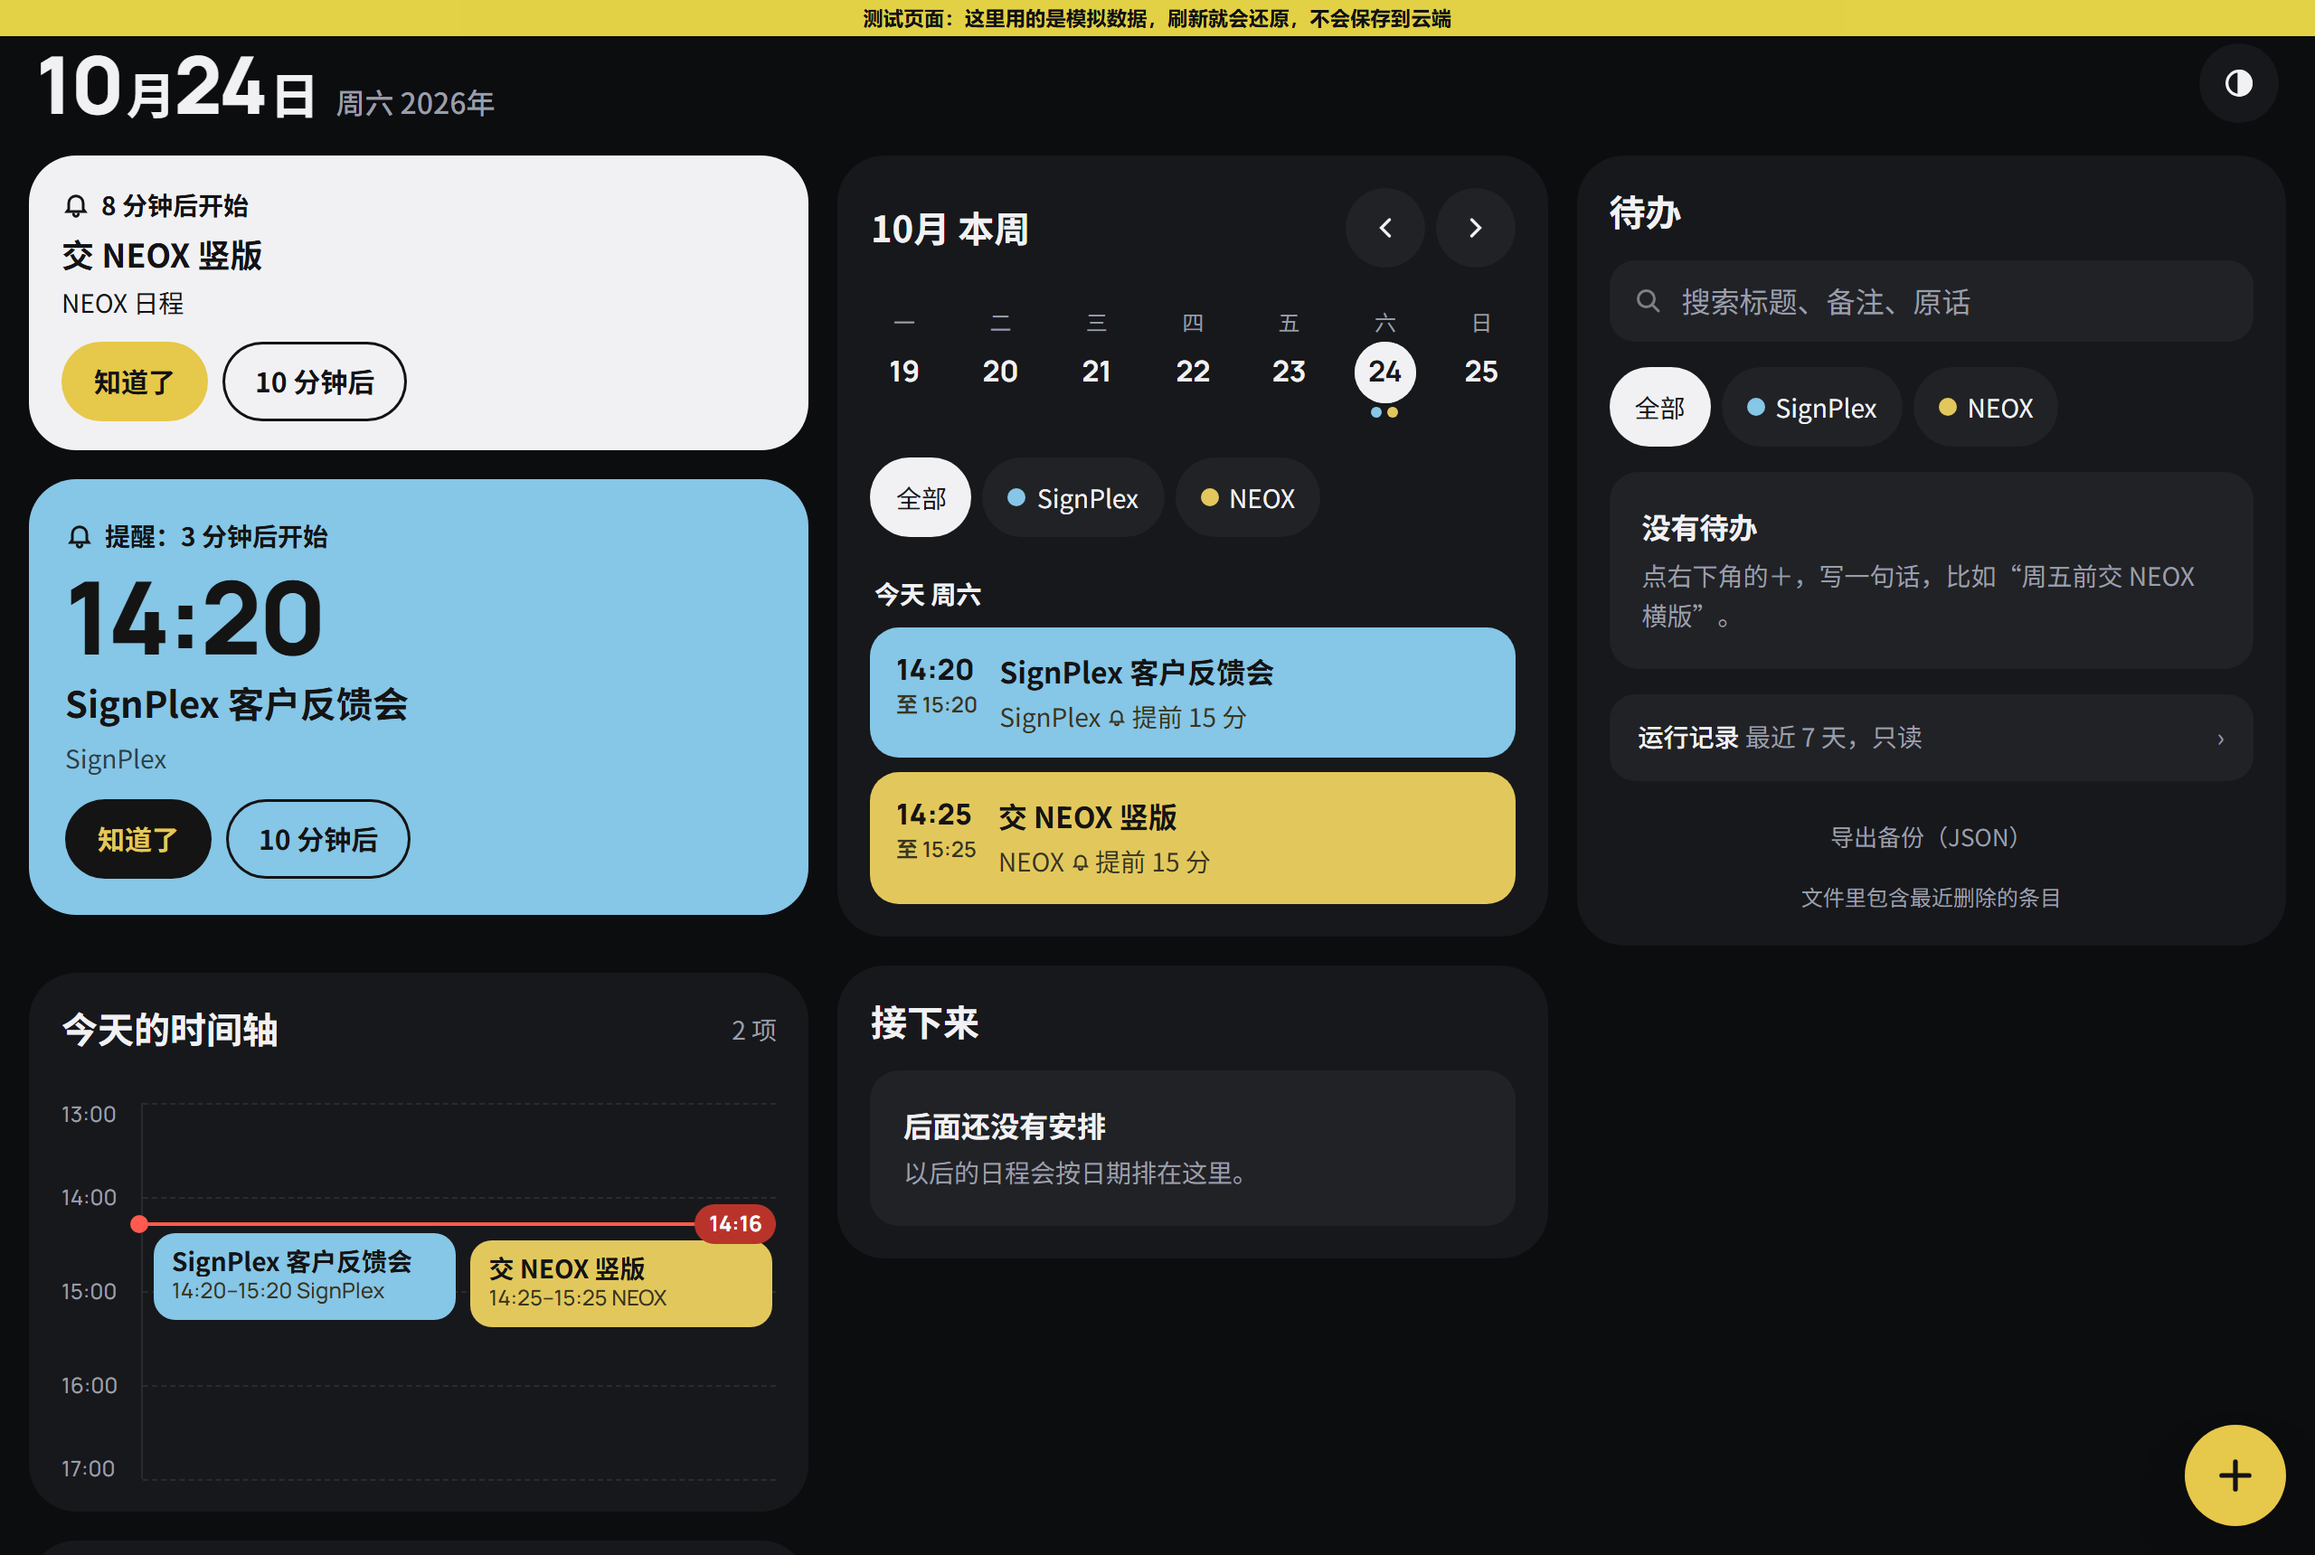
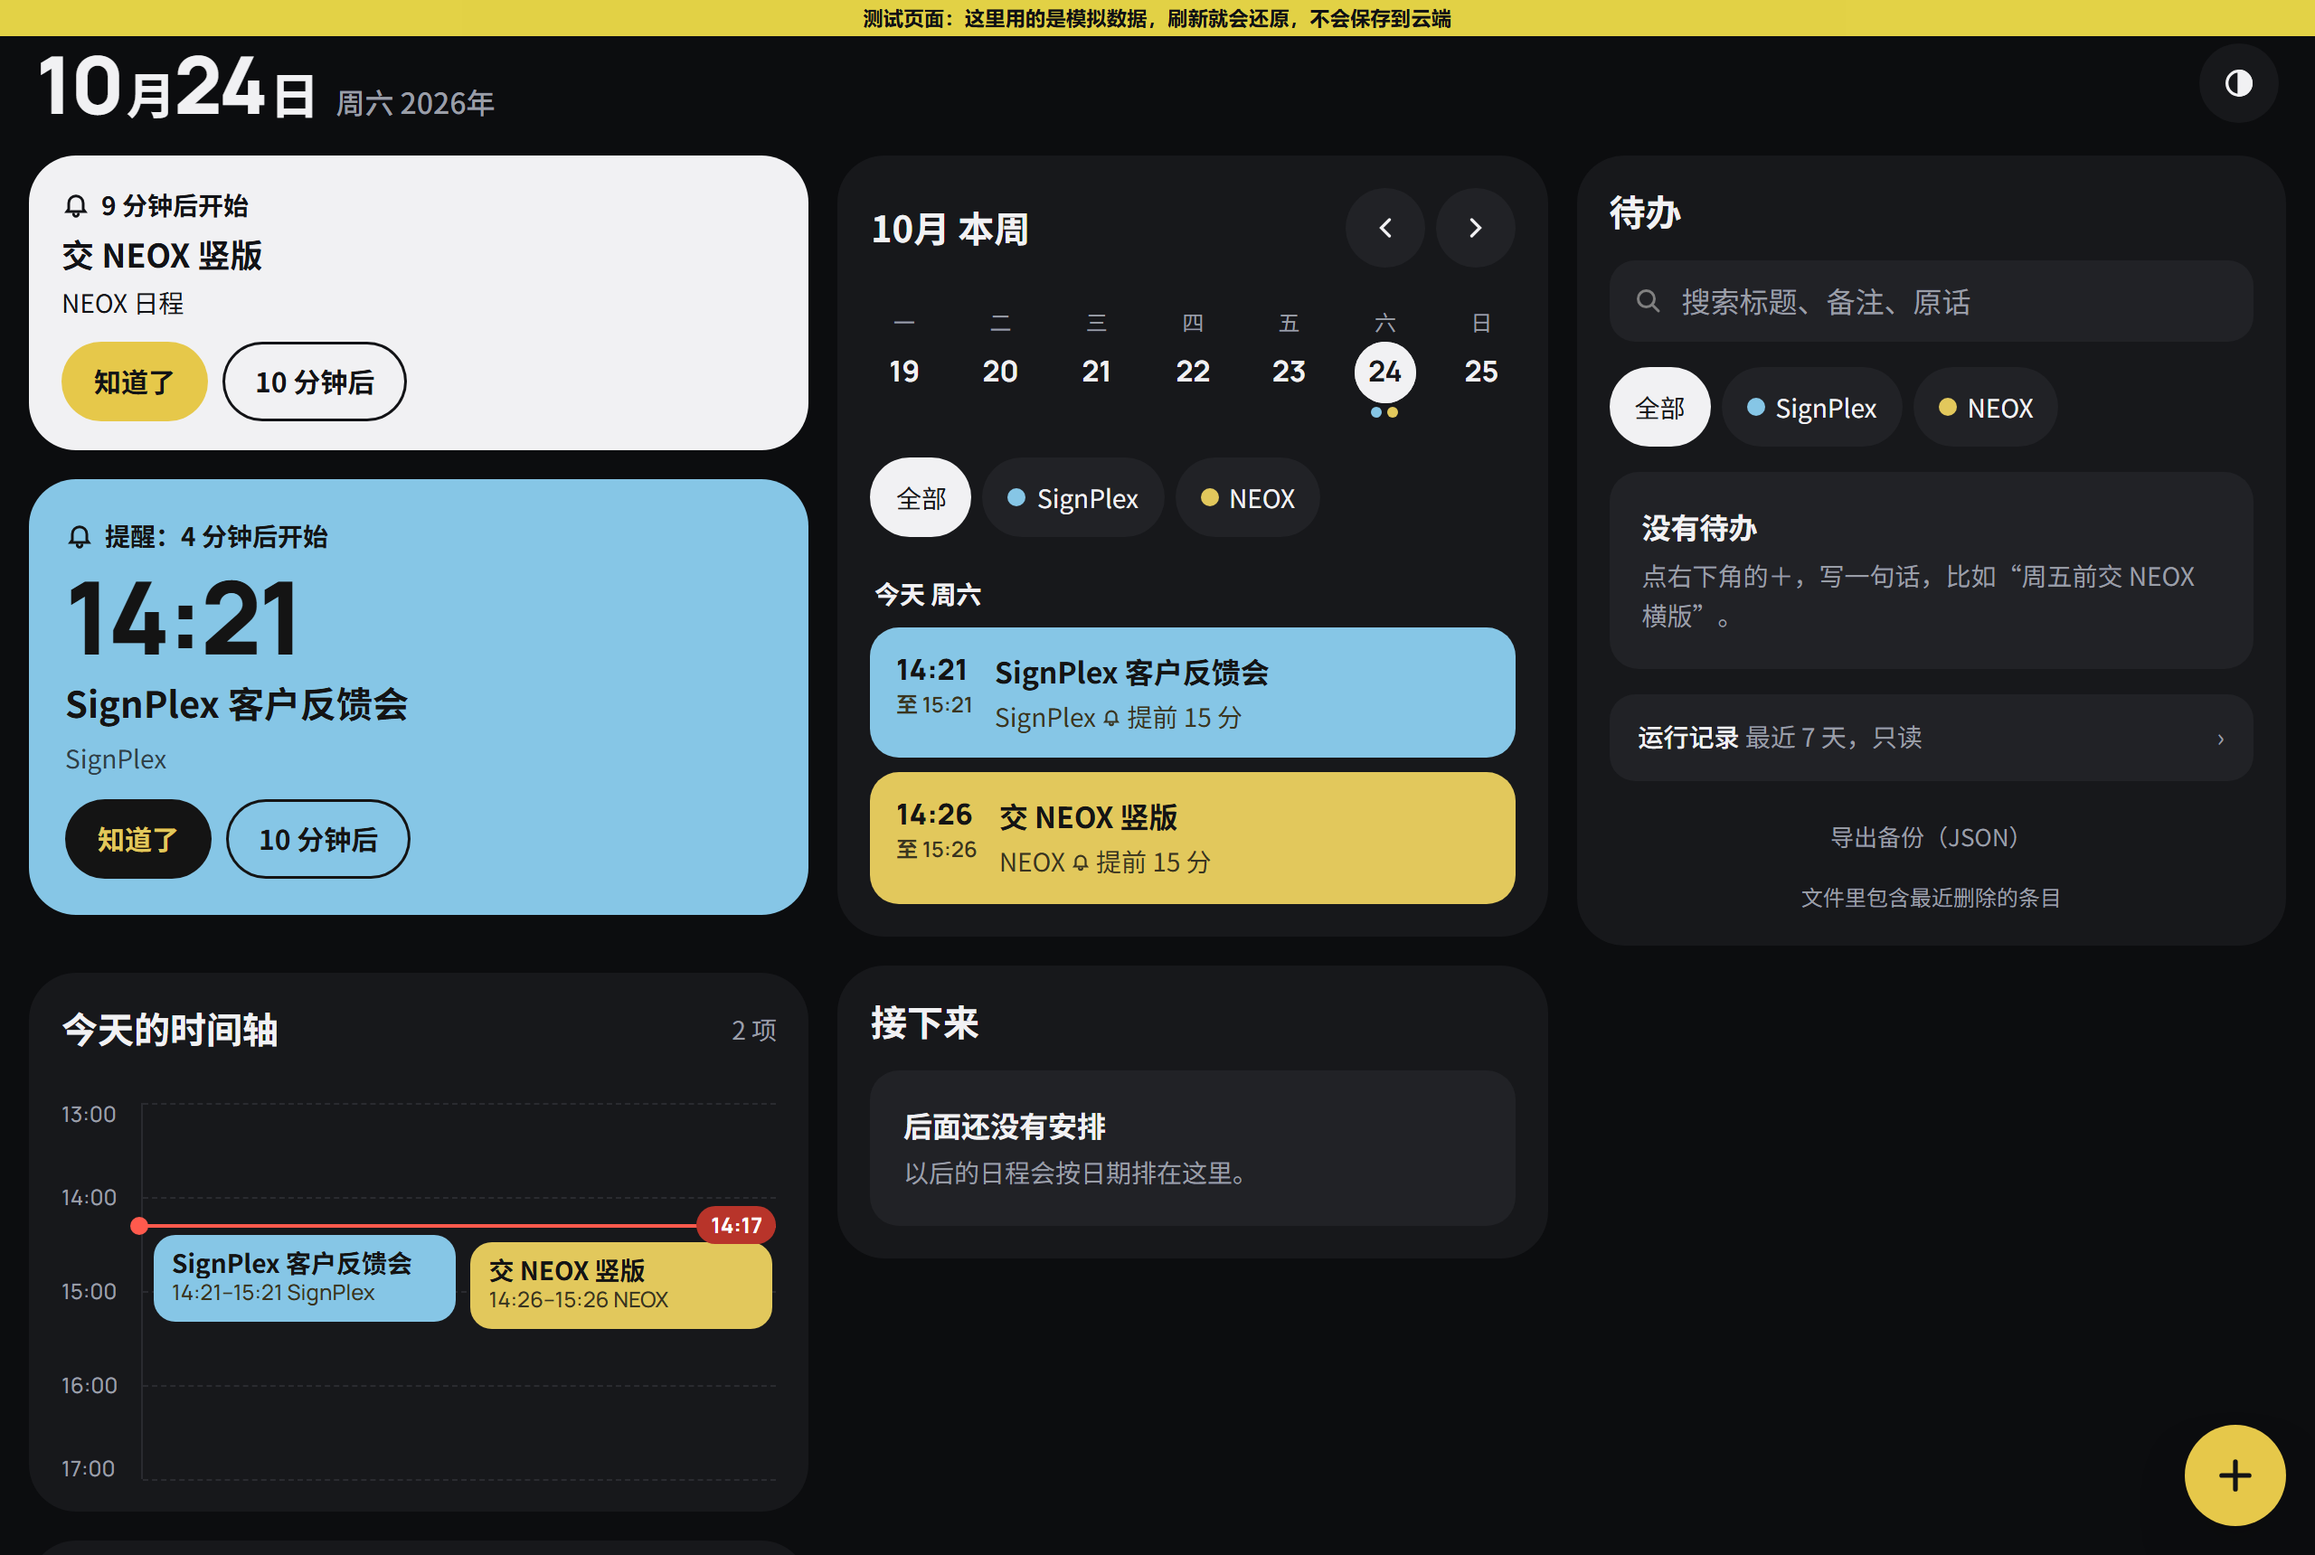
修复：切换页面时提醒胶囊不出现（切页不重绘，导航切换时单独刷新胶囊）；别处确认收起改用统一缓动；截图补“日程页提醒胶囊”场景

diff --git a/dist/planner.html b/dist/planner.html
@@ -395,7 +395,7 @@ button{cursor:pointer}
 @keyframes rem-shrink{from{grid-template-rows:1fr;opacity:1}to{grid-template-rows:0fr;opacity:0}}
 @keyframes remind-out{from{opacity:1;transform:none}to{opacity:0;transform:translateY(-8px)}}
 /* 已在别处确认：停 0.6 秒，最后 0.2 秒淡出并收起高度（UI-4 复查） */
-@keyframes remind-confirm{0%,75%{opacity:1;max-height:240px}100%{opacity:0;max-height:0;padding-top:0;padding-bottom:0}}
+@keyframes remind-confirm{0%,75%{opacity:1;max-height:240px;animation-timing-function:cubic-bezier(.4,0,.2,1)}100%{opacity:0;max-height:0;padding-top:0;padding-bottom:0}}
 @keyframes remind-in{from{opacity:0;transform:translateY(-12px)}to{opacity:1;transform:none}}
 @keyframes remind-fade{from{opacity:0}to{opacity:1}}
 @keyframes bell-swing{0%,100%{transform:rotate(0)}25%{transform:rotate(8deg)}75%{transform:rotate(-8deg)}}
@@ -3131,6 +3131,7 @@ App.ui.sheet = {open: openSheet, close: closeSheet, isClosed, init, openDetails}
 // 职责：底部导航与网络提示：go() 切换今天 / 日程 / 待办三页并回到页顶（记住上次的页、移动白色指示块、窄屏只显示当前页文字）；
 //       窗口尺寸变化时只重排导航、不滚动（修 v2“resize 跳回顶部”）；断网时顶部显示红条。
 // 依赖：core/const.js、platform/prefs.js、ui/dom.js、ui/view-state.js
+// 运行时调用：ui/remind.js
 App.ui = App.ui || {};
 
 const C = App.core.C;
@@ -3154,6 +3155,7 @@ function applyView(v){
     lab.hidden = !on && innerWidth < C.NARROW_NAV_PX;
   });
   requestAnimationFrame(placeInd);
+  if (App.ui.remind) App.ui.remind.renderPill();   // 切页不重绘，提醒胶囊要跟着当前页刷新（UI-1 复查）
 }
 function go(v){ applyView(v); window.scrollTo({top:0}); }
 const net = () => { $("netbar").hidden = navigator.onLine !== false; };
@@ -3325,7 +3327,7 @@ function init(){
   App.clock.on("tick", () => { if (!App.ui.sheet.isClosed()){ update(); renderCard(null); } });
 }
 
-App.ui.remind = {init, update, forItem, decorateNext, renderCard, todayVisible, ICON_BELL};
+App.ui.remind = {init, update, forItem, decorateNext, renderCard, renderPill, todayVisible, ICON_BELL};
 })();
 // ==== src/scripts/ui/theme.js ====
 (function(){

diff --git a/dist/test-claude.html b/dist/test-claude.html
@@ -451,7 +451,7 @@ button{cursor:pointer}
 @keyframes rem-shrink{from{grid-template-rows:1fr;opacity:1}to{grid-template-rows:0fr;opacity:0}}
 @keyframes remind-out{from{opacity:1;transform:none}to{opacity:0;transform:translateY(-8px)}}
 /* 已在别处确认：停 0.6 秒，最后 0.2 秒淡出并收起高度（UI-4 复查） */
-@keyframes remind-confirm{0%,75%{opacity:1;max-height:240px}100%{opacity:0;max-height:0;padding-top:0;padding-bottom:0}}
+@keyframes remind-confirm{0%,75%{opacity:1;max-height:240px;animation-timing-function:cubic-bezier(.4,0,.2,1)}100%{opacity:0;max-height:0;padding-top:0;padding-bottom:0}}
 @keyframes remind-in{from{opacity:0;transform:translateY(-12px)}to{opacity:1;transform:none}}
 @keyframes remind-fade{from{opacity:0}to{opacity:1}}
 @keyframes bell-swing{0%,100%{transform:rotate(0)}25%{transform:rotate(8deg)}75%{transform:rotate(-8deg)}}
@@ -3187,6 +3187,7 @@ App.ui.sheet = {open: openSheet, close: closeSheet, isClosed, init, openDetails}
 // 职责：底部导航与网络提示：go() 切换今天 / 日程 / 待办三页并回到页顶（记住上次的页、移动白色指示块、窄屏只显示当前页文字）；
 //       窗口尺寸变化时只重排导航、不滚动（修 v2“resize 跳回顶部”）；断网时顶部显示红条。
 // 依赖：core/const.js、platform/prefs.js、ui/dom.js、ui/view-state.js
+// 运行时调用：ui/remind.js
 App.ui = App.ui || {};
 
 const C = App.core.C;
@@ -3210,6 +3211,7 @@ function applyView(v){
     lab.hidden = !on && innerWidth < C.NARROW_NAV_PX;
   });
   requestAnimationFrame(placeInd);
+  if (App.ui.remind) App.ui.remind.renderPill();   // 切页不重绘，提醒胶囊要跟着当前页刷新（UI-1 复查）
 }
 function go(v){ applyView(v); window.scrollTo({top:0}); }
 const net = () => { $("netbar").hidden = navigator.onLine !== false; };
@@ -3381,7 +3383,7 @@ function init(){
   App.clock.on("tick", () => { if (!App.ui.sheet.isClosed()){ update(); renderCard(null); } });
 }
 
-App.ui.remind = {init, update, forItem, decorateNext, renderCard, todayVisible, ICON_BELL};
+App.ui.remind = {init, update, forItem, decorateNext, renderCard, renderPill, todayVisible, ICON_BELL};
 })();
 // ==== src/scripts/ui/theme.js ====
 (function(){

diff --git a/dist/test.html b/dist/test.html
@@ -420,7 +420,7 @@ button{cursor:pointer}
 @keyframes rem-shrink{from{grid-template-rows:1fr;opacity:1}to{grid-template-rows:0fr;opacity:0}}
 @keyframes remind-out{from{opacity:1;transform:none}to{opacity:0;transform:translateY(-8px)}}
 /* 已在别处确认：停 0.6 秒，最后 0.2 秒淡出并收起高度（UI-4 复查） */
-@keyframes remind-confirm{0%,75%{opacity:1;max-height:240px}100%{opacity:0;max-height:0;padding-top:0;padding-bottom:0}}
+@keyframes remind-confirm{0%,75%{opacity:1;max-height:240px;animation-timing-function:cubic-bezier(.4,0,.2,1)}100%{opacity:0;max-height:0;padding-top:0;padding-bottom:0}}
 @keyframes remind-in{from{opacity:0;transform:translateY(-12px)}to{opacity:1;transform:none}}
 @keyframes remind-fade{from{opacity:0}to{opacity:1}}
 @keyframes bell-swing{0%,100%{transform:rotate(0)}25%{transform:rotate(8deg)}75%{transform:rotate(-8deg)}}
@@ -3156,6 +3156,7 @@ App.ui.sheet = {open: openSheet, close: closeSheet, isClosed, init, openDetails}
 // 职责：底部导航与网络提示：go() 切换今天 / 日程 / 待办三页并回到页顶（记住上次的页、移动白色指示块、窄屏只显示当前页文字）；
 //       窗口尺寸变化时只重排导航、不滚动（修 v2“resize 跳回顶部”）；断网时顶部显示红条。
 // 依赖：core/const.js、platform/prefs.js、ui/dom.js、ui/view-state.js
+// 运行时调用：ui/remind.js
 App.ui = App.ui || {};
 
 const C = App.core.C;
@@ -3179,6 +3180,7 @@ function applyView(v){
     lab.hidden = !on && innerWidth < C.NARROW_NAV_PX;
   });
   requestAnimationFrame(placeInd);
+  if (App.ui.remind) App.ui.remind.renderPill();   // 切页不重绘，提醒胶囊要跟着当前页刷新（UI-1 复查）
 }
 function go(v){ applyView(v); window.scrollTo({top:0}); }
 const net = () => { $("netbar").hidden = navigator.onLine !== false; };
@@ -3350,7 +3352,7 @@ function init(){
   App.clock.on("tick", () => { if (!App.ui.sheet.isClosed()){ update(); renderCard(null); } });
 }
 
-App.ui.remind = {init, update, forItem, decorateNext, renderCard, todayVisible, ICON_BELL};
+App.ui.remind = {init, update, forItem, decorateNext, renderCard, renderPill, todayVisible, ICON_BELL};
 })();
 // ==== src/scripts/ui/theme.js ====
 (function(){

diff --git a/src/scripts/ui/nav.js b/src/scripts/ui/nav.js
@@ -1,6 +1,7 @@
 // 职责：底部导航与网络提示：go() 切换今天 / 日程 / 待办三页并回到页顶（记住上次的页、移动白色指示块、窄屏只显示当前页文字）；
 //       窗口尺寸变化时只重排导航、不滚动（修 v2“resize 跳回顶部”）；断网时顶部显示红条。
 // 依赖：core/const.js、platform/prefs.js、ui/dom.js、ui/view-state.js
+// 运行时调用：ui/remind.js
 App.ui = App.ui || {};
 
 const C = App.core.C;
@@ -24,6 +25,7 @@ function applyView(v){
     lab.hidden = !on && innerWidth < C.NARROW_NAV_PX;
   });
   requestAnimationFrame(placeInd);
+  if (App.ui.remind) App.ui.remind.renderPill();   // 切页不重绘，提醒胶囊要跟着当前页刷新（UI-1 复查）
 }
 function go(v){ applyView(v); window.scrollTo({top:0}); }
 const net = () => { $("netbar").hidden = navigator.onLine !== false; };

diff --git a/src/styles/components/remind.css b/src/styles/components/remind.css
@@ -53,7 +53,7 @@
 @keyframes rem-shrink{from{grid-template-rows:1fr;opacity:1}to{grid-template-rows:0fr;opacity:0}}
 @keyframes remind-out{from{opacity:1;transform:none}to{opacity:0;transform:translateY(-8px)}}
 /* 已在别处确认：停 0.6 秒，最后 0.2 秒淡出并收起高度（UI-4 复查） */
-@keyframes remind-confirm{0%,75%{opacity:1;max-height:240px}100%{opacity:0;max-height:0;padding-top:0;padding-bottom:0}}
+@keyframes remind-confirm{0%,75%{opacity:1;max-height:240px;animation-timing-function:cubic-bezier(.4,0,.2,1)}100%{opacity:0;max-height:0;padding-top:0;padding-bottom:0}}
 @keyframes remind-in{from{opacity:0;transform:translateY(-12px)}to{opacity:1;transform:none}}
 @keyframes remind-fade{from{opacity:0}to{opacity:1}}
 @keyframes bell-swing{0%,100%{transform:rotate(0)}25%{transform:rotate(8deg)}75%{transform:rotate(-8deg)}}

diff --git a/src/scripts/ui/remind.js b/src/scripts/ui/remind.js
@@ -154,4 +154,4 @@ function init(){
   App.clock.on("tick", () => { if (!App.ui.sheet.isClosed()){ update(); renderCard(null); } });
 }
 
-App.ui.remind = {init, update, forItem, decorateNext, renderCard, todayVisible, ICON_BELL};
+App.ui.remind = {init, update, forItem, decorateNext, renderCard, renderPill, todayVisible, ICON_BELL};

diff --git a/文件登记册.md b/文件登记册.md
@@ -247,6 +247,8 @@
 | docs/02-设计/成品截图-v3/电脑-深色-00-今天-下一件事提醒状态.png | 设计 | v3 成品截图（tests/visual/shoot.mjs 生成） | 主持人 | 10-23 | 在用 |
 | docs/02-设计/成品截图-v3/电脑-深色-01-今天-两种提醒.png | 设计 | v3 成品截图（tests/visual/shoot.mjs 生成） | 主持人 | 10-23 | 在用 |
 | docs/02-设计/成品截图-v3/电脑-深色-03-新建-韩文识别.png | 设计 | v3 成品截图（tests/visual/shoot.mjs 生成） | 主持人 | 10-23 | 在用 |
+| docs/02-设计/成品截图-v3/手机-浅色-05c-日程页-提醒胶囊.png | 设计 | v3 成品截图（tests/visual/shoot.mjs 生成） | 主持人 | 10-24 | 在用 |
+| docs/02-设计/成品截图-v3/手机-深色-05c-日程页-提醒胶囊.png | 设计 | v3 成品截图（tests/visual/shoot.mjs 生成） | 主持人 | 10-24 | 在用 |
 | tests/unit/remind.test.mjs | 测试 | 提醒规则单元测试（37 项） | 主持人 | 10-23 | 在用 |
 | tests/unit/parse-quick.test.mjs | 测试 | 一句话解析单元测试（写死预期值） | 程序员 1 | 10-23 | 在用 |
 | tests/unit/build-output.test.mjs | 测试 | 构建产物检查：发布版不带环境提示，测试页和预发布版带 | 程序员 1 | 10-23 | 在用 |
